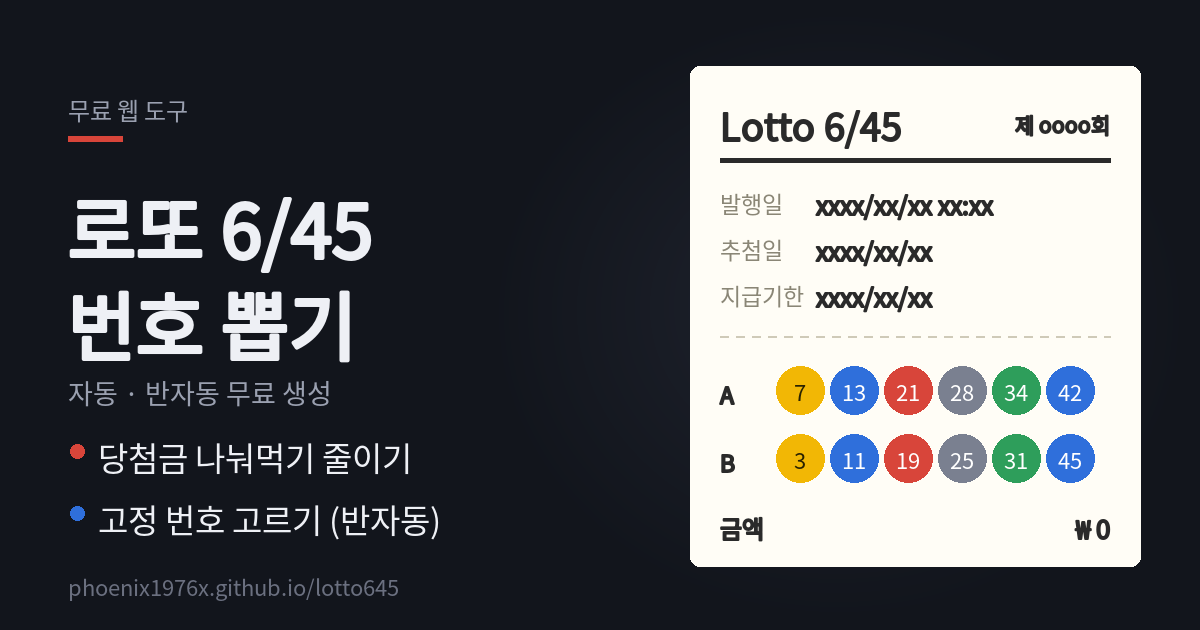
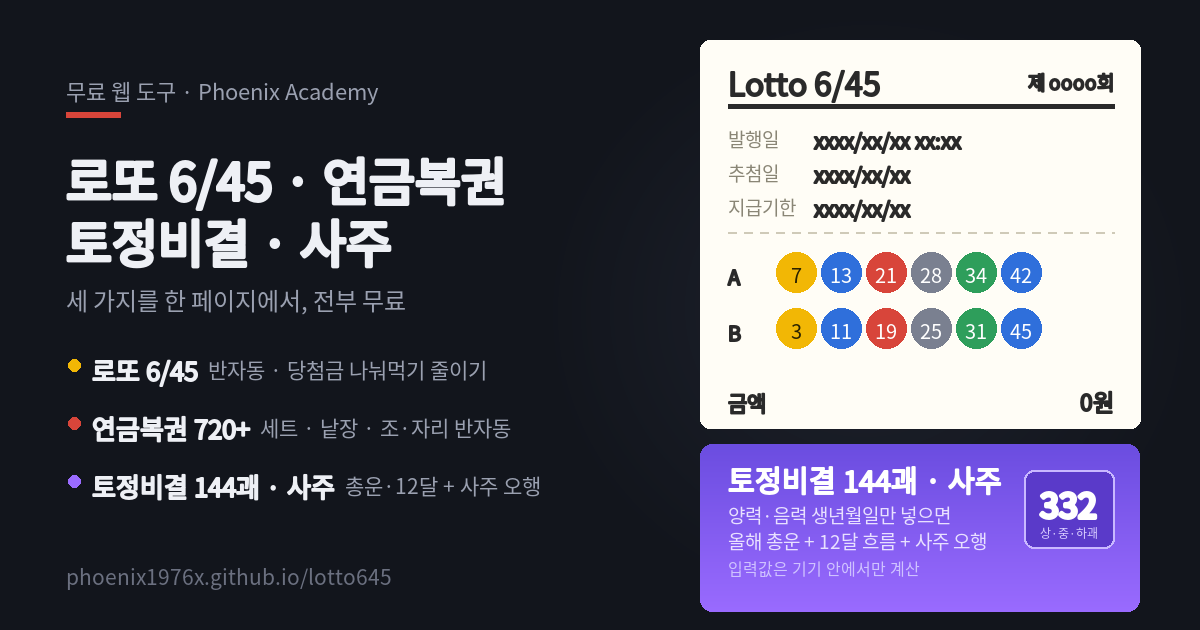
Update preview card to show all three tools and version the OG image URL

diff --git a/index.html b/index.html
@@ -10,14 +10,14 @@
 <meta property="og:type" content="website">
 <meta property="og:url" content="https://phoenix1976x.github.io/lotto645/">
 <meta property="og:site_name" content="Phoenix Academy">
-<meta property="og:image" content="https://phoenix1976x.github.io/lotto645/og-preview.png">
+<meta property="og:image" content="https://phoenix1976x.github.io/lotto645/og-preview-v2.png">
 <meta property="og:image:width" content="1200">
 <meta property="og:image:height" content="630">
 <meta property="og:image:alt" content="로또 6/45 · 연금복권 720+ · 무료 토정비결·사주 화면">
 <meta name="twitter:card" content="summary_large_image">
 <meta name="twitter:title" content="로또 6/45 · 연금복권 720+ · 무료 토정비결·사주">
 <meta name="twitter:description" content="로또·연금복권 번호 뽑기 + 무료 토정비결 144괘·사주 오행까지 한 페이지에서">
-<meta name="twitter:image" content="https://phoenix1976x.github.io/lotto645/og-preview.png">
+<meta name="twitter:image" content="https://phoenix1976x.github.io/lotto645/og-preview-v2.png">
 <style>
 :root{--bg:#e9ecf3;--fg:#1d2230;--mut:#6b7080;--paper:#fffdf6;--ink:#2a2a2a;--line:#cfcab8;--btn:#d8453a;--pbtn:#e87717;--btnfg:#fff;
 --y:#f2b705;--b:#2f6fdb;--r:#d8453a;--g:#7a8090;--n:#2e9e5b;

diff --git a/make_og.py b/make_og.py
@@ -1,0 +1,147 @@
+# -*- coding: utf-8 -*-
+"""Build the 1200x630 OpenGraph preview card for the integrated
+Lotto 6/45 + Pension 720+ + Tojeongbigyeol/Saju page.
+
+Run from /workspace:  python3 work/lotto645/make_og.py
+"""
+from PIL import Image, ImageDraw, ImageFont
+
+W, H = 1200, 630
+BG = "#12151c"
+FG = "#eef0f5"
+MUT = "#9aa0b0"
+PAPER = "#fffdf6"
+INK = "#2a2a2a"
+LINE = "#cfcab8"
+Y, B, R, G, N = "#f2b705", "#2f6fdb", "#d8453a", "#7a8090", "#2e9e5b"
+ACC = "#d8453a"
+PJ = "#6b4de0"
+PJ2 = "#9a6bff"
+
+FONT = "/usr/share/fonts/pickle-hwp/NotoSansCJKkr-Regular.otf"
+
+
+def f(size):
+    return ImageFont.truetype(FONT, size)
+
+
+img = Image.new("RGB", (W, H), BG)
+d = ImageDraw.Draw(img)
+
+# soft glow behind the cards
+glow = Image.new("RGB", (W, H), BG)
+gd = ImageDraw.Draw(glow)
+for i in range(70, 0, -1):
+    a = i / 70
+    gd.ellipse([860 - 330 * a, 300 - 300 * a, 860 + 350 * a, 300 + 330 * a],
+               fill=(int(18 + 24 * (1 - a)), int(21 + 26 * (1 - a)), int(28 + 34 * (1 - a))))
+img = Image.blend(img, glow, 0.5)
+d = ImageDraw.Draw(img)
+
+
+def text(xy, s, size, fill, bold=0, anchor="la"):
+    d.text(xy, s, font=f(size), fill=fill, anchor=anchor,
+           stroke_width=bold, stroke_fill=fill)
+
+
+# ---------- left column ----------
+LX = 66
+text((LX, 74), "무료 웹 도구 · Phoenix Academy", 22, MUT)
+d.rectangle([LX, 112, LX + 54, 117], fill=ACC)
+
+text((LX, 142), "로또 6/45 · 연금복권", 50, FG, bold=2)
+text((LX, 204), "토정비결 · 사주", 50, FG, bold=2)
+text((LX, 282), "세 가지를 한 페이지에서, 전부 무료", 24, MUT)
+
+feats = [
+    ("로또 6/45", "반자동 · 당첨금 나눠먹기 줄이기", Y),
+    ("연금복권 720+", "세트 · 낱장 · 조·자리 반자동", ACC),
+    ("토정비결 144괘 · 사주", "총운·12달 + 사주 오행", PJ2),
+]
+fy = 350
+for name, sub, color in feats:
+    d.ellipse([LX + 2, fy + 9, LX + 14, fy + 21], fill=color)
+    wname = d.textlength(name, font=f(26))
+    text((LX + 26, fy), name, 26, FG, bold=1)
+    text((LX + 26 + wname + 10, fy + 3), sub, 21, MUT)
+    fy += 58
+
+text((LX, 560), "phoenix1976x.github.io/lotto645", 21, "#6b7080")
+
+# ---------- ticket card (kept: 제 oooo회 가상 용지) ----------
+TX0, TY0, TX1, TY1 = 700, 40, 1140, 428
+d.rounded_rectangle([TX0, TY0, TX1, TY1], radius=10, fill=PAPER)
+
+PX = TX0 + 28
+d.text((PX, TY0 + 18), "Lotto 6/45", font=f(32), fill=INK, stroke_width=1, stroke_fill=INK)
+w = d.textlength("제 oooo회", font=f(19))
+d.text((TX1 - 26 - w, TY0 + 27), "제 oooo회", font=f(19), fill=INK, stroke_width=1, stroke_fill=INK)
+
+d.rectangle([PX, TY0 + 64, TX1 - 26, TY0 + 68], fill=INK)
+
+rows = [("발행일", "xxxx/xx/xx xx:xx"), ("추첨일", "xxxx/xx/xx"), ("지급기한", "xxxx/xx/xx")]
+ry = TY0 + 84
+for lab, val in rows:
+    d.text((PX, ry), lab, font=f(19), fill="#8a8676")
+    d.text((PX + 86, ry), val, font=f(21), fill=INK, stroke_width=1, stroke_fill=INK)
+    ry += 34
+
+# dashed divider
+dy = ry + 6
+x = PX
+while x < TX1 - 26:
+    d.line([x, dy, min(x + 8, TX1 - 26), dy], fill=LINE, width=2)
+    x += 16
+
+
+def ball(cx, cy, r, label, color, fg="#fff"):
+    d.ellipse([cx - r, cy - r, cx + r, cy + r], fill=color)
+    tw = d.textlength(label, font=f(int(r * 1.0)))
+    d.text((cx - tw / 2, cy - r * 0.66), label, font=f(int(r * 1.0)), fill=fg)
+
+
+sets = [["7", "13", "21", "28", "34", "42"], ["3", "11", "19", "25", "31", "45"]]
+colors = [Y, B, R, G, N, B]
+by = dy + 40
+r = 20
+for si, s2 in enumerate(sets):
+    d.text((PX, by - 11), "AB"[si], font=f(20), fill=INK, stroke_width=1, stroke_fill=INK)
+    for i, num in enumerate(s2):
+        cx = PX + 48 + i * (2 * r + 5) + r
+        fg = "#2a2200" if colors[i] == Y else "#ffffff"
+        ball(cx, by, r, num, colors[i], fg)
+    by += 56
+
+d.text((PX, TY1 - 42), "금액", font=f(21), fill=INK, stroke_width=1, stroke_fill=INK)
+w = d.textlength("0원", font=f(23))
+d.text((TX1 - 26 - w, TY1 - 44), "0원", font=f(23), fill=INK, stroke_width=1, stroke_fill=INK)
+
+# ---------- purple card (tojeong + saju) ----------
+QX0, QY0, QX1, QY1 = 700, 444, 1140, 612
+grad = Image.new("RGB", (QX1 - QX0, QY1 - QY0))
+gd2 = ImageDraw.Draw(grad)
+c1 = (107, 77, 224)
+c2 = (154, 107, 255)
+for yy in range(QY1 - QY0):
+    t = yy / (QY1 - QY0)
+    gd2.line([(0, yy), (QX1 - QX0, yy)],
+             fill=(int(c1[0] + (c2[0] - c1[0]) * t),
+                   int(c1[1] + (c2[1] - c1[1]) * t),
+                   int(c1[2] + (c2[2] - c1[2]) * t)))
+mask = Image.new("L", (QX1 - QX0, QY1 - QY0), 0)
+ImageDraw.Draw(mask).rounded_rectangle([0, 0, QX1 - QX0 - 1, QY1 - QY0 - 1], radius=12, fill=255)
+img.paste(grad, (QX0, QY0), mask)
+d = ImageDraw.Draw(img)
+
+text((QX0 + 28, QY0 + 14), "토정비결 144괘 · 사주", 29, "#ffffff", bold=1)
+text((QX0 + 28, QY0 + 56), "양력·음력 생년월일만 넣으면", 19, "#e8e0ff")
+text((QX0 + 28, QY0 + 82), "올해 총운 + 12달 흐름 + 사주 오행", 19, "#e8e0ff")
+text((QX0 + 28, QY0 + 112), "입력값은 기기 안에서만 계산", 16, "#cfc2ff")
+
+chip = [QX1 - 116, QY0 + 26, QX1 - 26, QY0 + 104]
+d.rounded_rectangle(chip, radius=10, fill="#5a3ac9", outline="#c9b8ff", width=2)
+text(((chip[0] + chip[2]) / 2, chip[1] + 8), "332", 34, "#ffffff", bold=2, anchor="ma")
+text(((chip[0] + chip[2]) / 2, chip[1] + 54), "상·중·하괘", 12, "#d8ccff", anchor="ma")
+
+img.save("work/lotto645/og-preview.png", optimize=True)
+print("saved", img.size)
